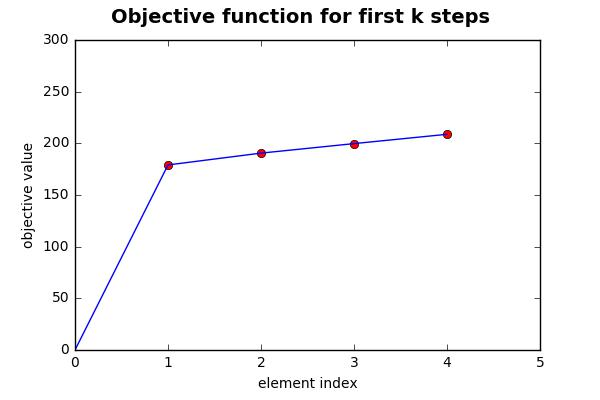
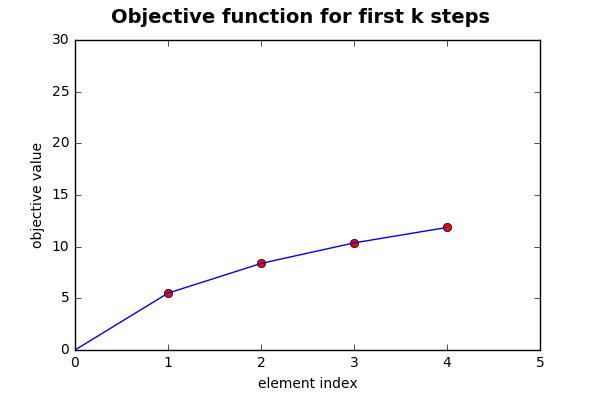
added correct cost function for imageproc

diff --git a/imageproc/greedy.py b/imageproc/greedy.py
@@ -61,7 +61,7 @@ def greedy(l, k, featvec, catimg):
 		ax.set_xlabel('element index')
 		ax.set_ylabel('objective value')
 
-		ax.axis([0, k+1, 0, 300])
+		ax.axis([0, k+1, 0, 30])
 
 		plt.plot([(i+1) for i in range(k)], history, 'ro')
 
@@ -130,23 +130,40 @@ def greedy(l, k, featvec, catimg):
 
 		return list(set(S))
 
-
-	# write a function that computes the value of f for each category
 	def computeCost(cat, S):
-		tot = 0
-
+		# we initialize with e0 = 0
+		t1 = 0
 		for img in catimg[cat]:
-			best = 0
+			t1 = t1 + np.linalg.norm(featvec[img])
+
+		t2 = 0
+		for img in catimg[cat]:
+			# the value for e0
+			best = np.linalg.norm(featvec[img])
 
 			for s in S:
-				best = max(best, computeSim(featvec[img], featvec[s]))
-				# best = max(best, 1 / (np.linalg.norm(featvec[img] - featvec[s]) + 1))
+				best = min(best, np.linalg.norm(featvec[img] - featvec[s]))
 
-			tot = tot + best
+			t2 = t2 + best
 
-		return tot
+		return (t1 - t2) / len(catimg[cat])
 
-	def computeSim(a, b):
-		return 1.0 / (np.linalg.norm(a - b) + 1)
+	# write a function that computes the value of f for each category
+	# def computeCost(cat, S):
+	# 	tot = 0
+
+	# 	for img in catimg[cat]:
+	# 		best = 0
+
+	# 		for s in S:
+	# 			best = max(best, computeSim(featvec[img], featvec[s]))
+	# 			# best = max(best, 1 / (np.linalg.norm(featvec[img] - featvec[s]) + 1))
+
+	# 		tot = tot + best
+
+	# 	return tot
+
+	# def computeSim(a, b):
+	# 	return 1.0 / (np.linalg.norm(a - b) + 1)
 
 	return worker()

diff --git a/imageproc/novel.py b/imageproc/novel.py
@@ -93,7 +93,7 @@ def novel(l, k, featvec, catimg):
 		ax.set_xlabel('element index')
 		ax.set_ylabel('objective value')
 
-		ax.axis([0, l, 0, 300])
+		ax.axis([0, l, 0, 30])
 
 		plt.plot([i+1 for i in range(l)], history, 'ro')
 		plt.plot([i+1 for i in range(k)], history[:k], 'yo')
@@ -154,7 +154,7 @@ def novel(l, k, featvec, catimg):
 		ax.set_xlabel('element index')
 		ax.set_ylabel('objective value')
 
-		ax.axis([0, k+1, 0, 300])
+		ax.axis([0, k+1, 0, 30])
 
 		plt.plot([(i+1) for i in range(k)], history, 'ro')
 
@@ -169,18 +169,36 @@ def novel(l, k, featvec, catimg):
 
 
 	# write a function that computes the value of f for each category
-	def computeCost(cat, S):
-		tot = 0
+	# def computeCost(cat, S):
+	# 	tot = 0
 
+	# 	for img in catimg[cat]:
+	# 		best = 0
+
+	# 		for s in S:
+	# 			best = max(best, 1.0 / (np.linalg.norm(featvec[img] - featvec[s]) + 1))
+
+	# 		tot = tot + best
+
+	# 	return tot
+
+	def computeCost(cat, S):
+		# we initialize with e0 = 0
+		t1 = 0
 		for img in catimg[cat]:
-			best = 0
+			t1 = t1 + np.linalg.norm(featvec[img])
+
+		t2 = 0
+		for img in catimg[cat]:
+			# the value for e0
+			best = np.linalg.norm(featvec[img])
 
 			for s in S:
-				best = max(best, 1.0 / (np.linalg.norm(featvec[img] - featvec[s]) + 1))
+				best = min(best, np.linalg.norm(featvec[img] - featvec[s]))
 
-			tot = tot + best
+			t2 = t2 + best
 
-		return tot
+		return (t1 - t2) / len(catimg[cat])
 
 	return worker()
 
